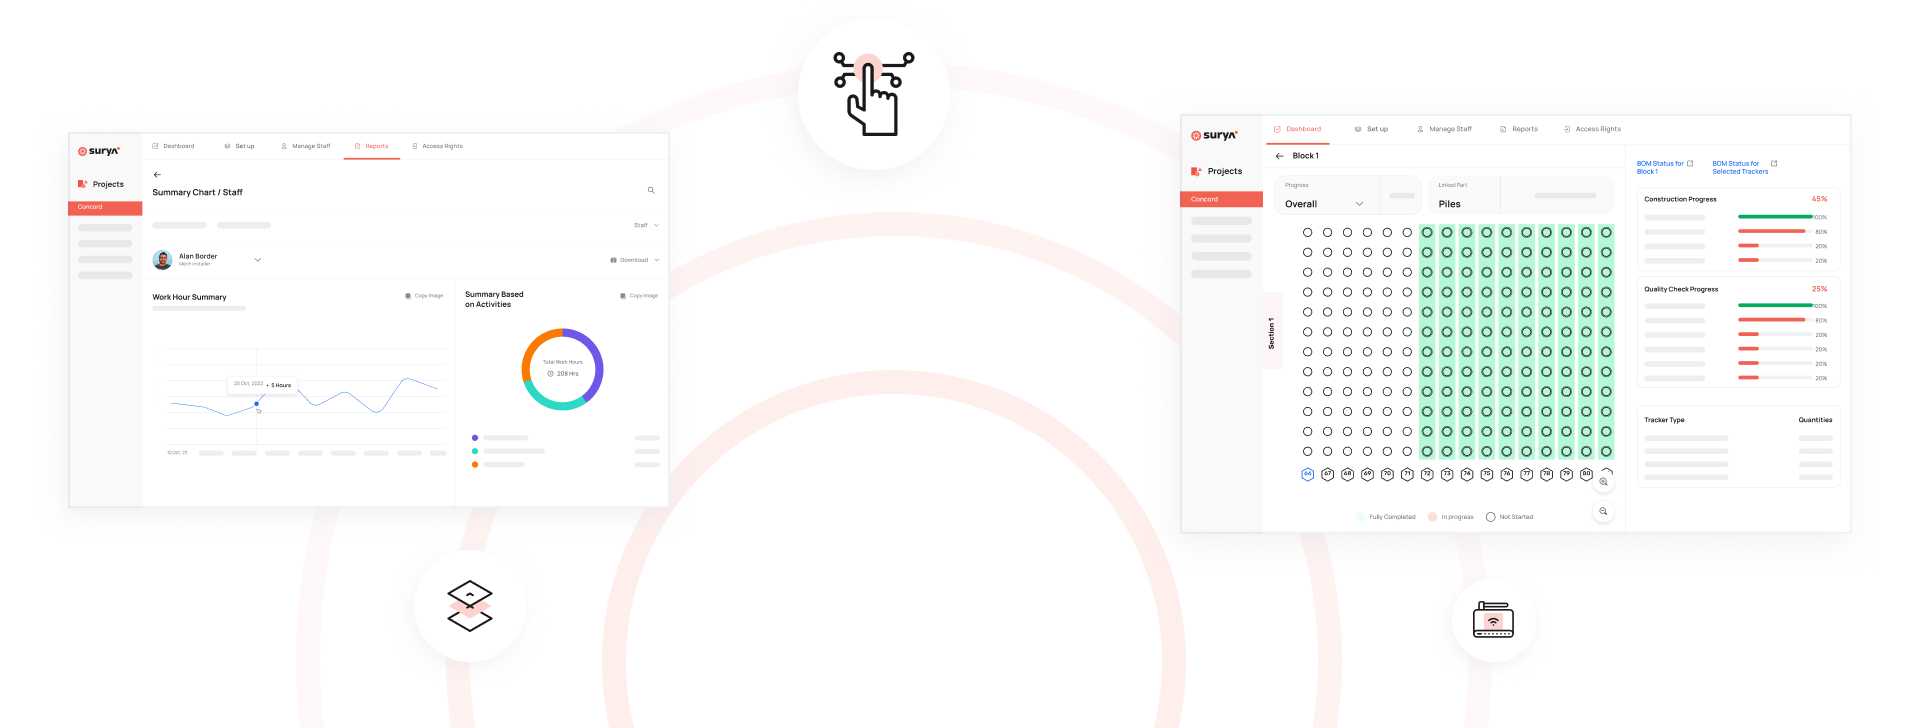
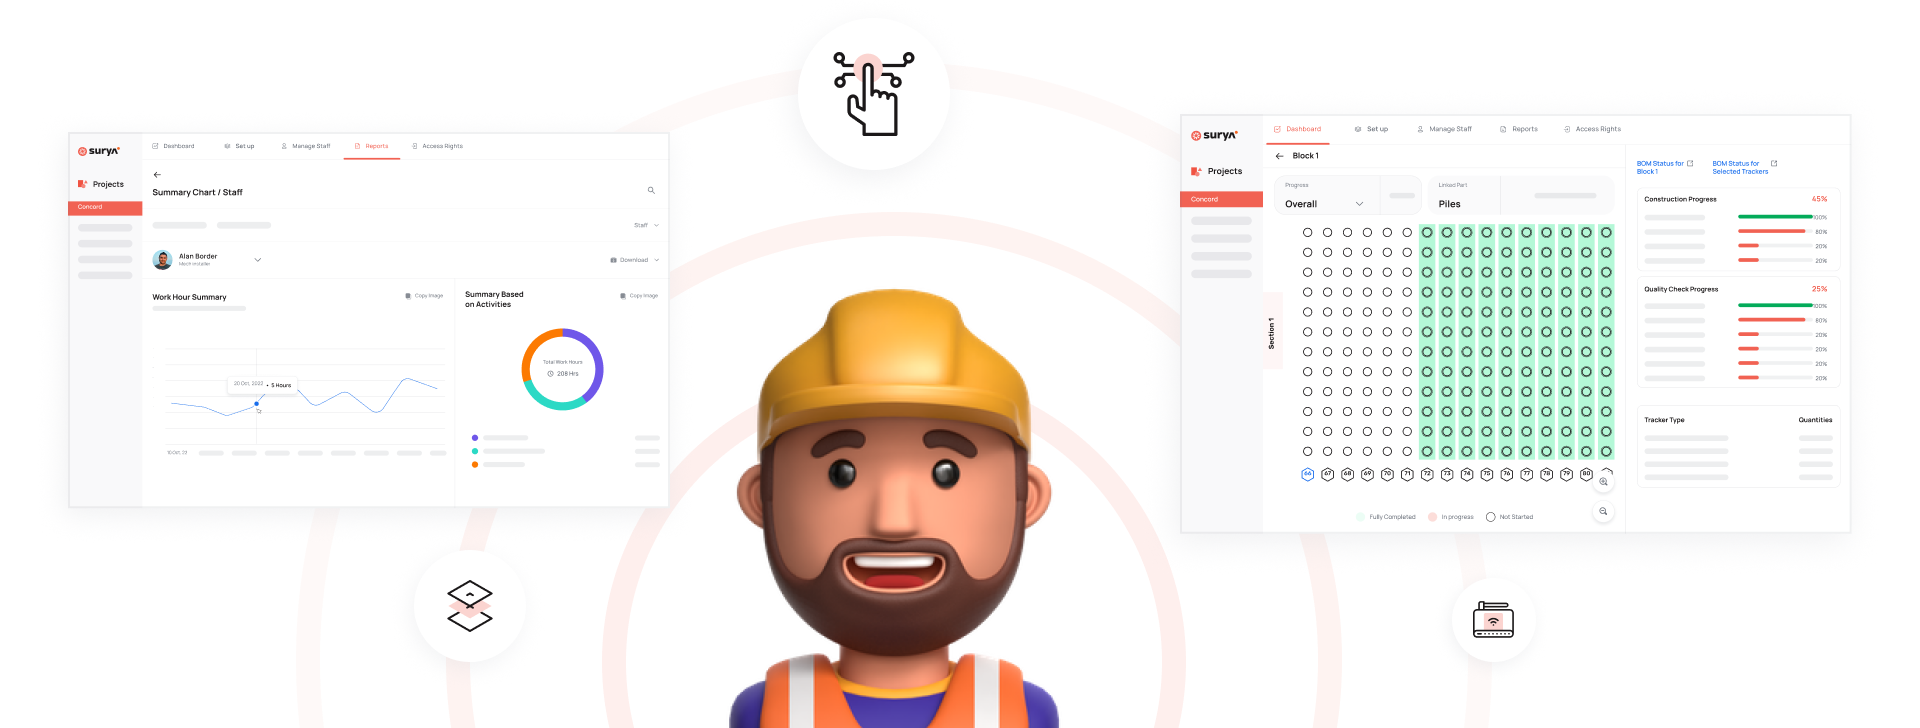
home animation done

Changed region(s): [[0.375, 0.3929, 0.5625, 1.0]]

diff --git a/src/Styles/global.css b/src/Styles/global.css
@@ -86,7 +86,32 @@ textarea {
     flex-direction: column;
     align-items: center;
     margin-top: 80px;
+    overflow: hidden;
+    
 }
+
+.header__img 
+{
+    width: 100%;
+    display: flex;
+    animation: slide 20s infinite;
+}
+
+@keyframes slide{
+    0%{
+        transform: translateX(0);
+    }
+    25%{
+        transform: translateX(0);
+    }
+    50%{
+        transform: translateX(-100%);
+    }
+    100%{
+        transform: translateX(-100%);
+    }
+}
+
 .product--container
 {
     margin-top: 130px;

diff --git a/src/Components/Home.js b/src/Components/Home.js
@@ -21,6 +21,7 @@ export default function Home() {
                         </div>
                         <div className="header__img mt-4">
                             <img src="./images/home1.png" alt="" />
+                            <img src="./images/home2.png" alt="" />
                         </div>
                     </div>
                 </div>

diff --git a/src/Components/Product.js b/src/Components/Product.js
@@ -2,6 +2,8 @@ import React from 'react'
 import Footer from '../Partials/Footer'
 import Header from '../Partials/Header'
 
+import { fadeIn, slideInDown } from 'react-animations'
+
 export default function Product() {
   return (
     <>
